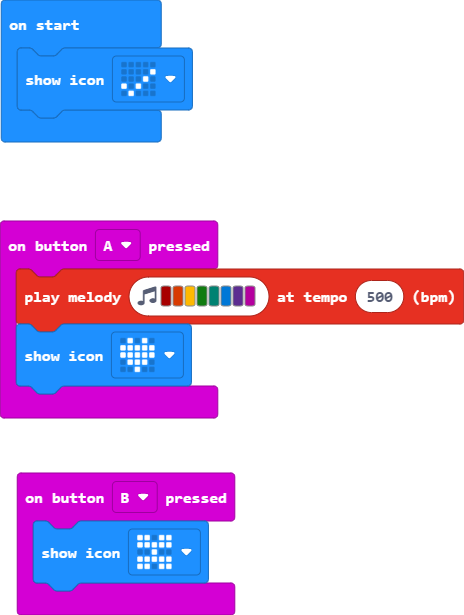
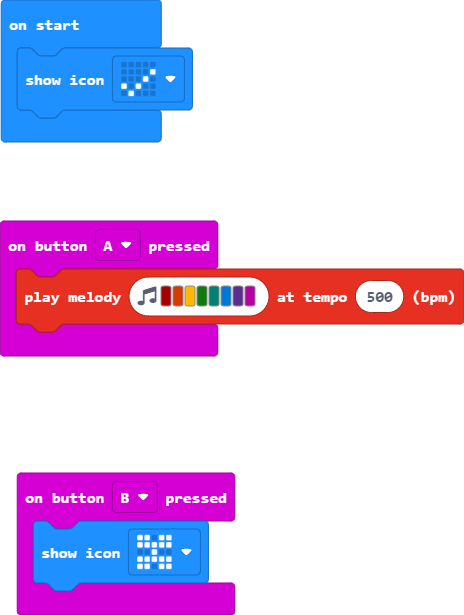
Update main.blocks, main.ts

Changed region(s): [[0.0, 0.5252, 0.4828, 0.6797]]

diff --git a/main.ts b/main.ts
@@ -1,6 +1,5 @@
 input.onButtonPressed(Button.A, function () {
     music.playMelody("C5 B A G F E D C ", 500)
-    basic.showIcon(IconNames.Heart)
 })
 input.onButtonPressed(Button.B, function () {
     basic.showIcon(IconNames.Butterfly)
